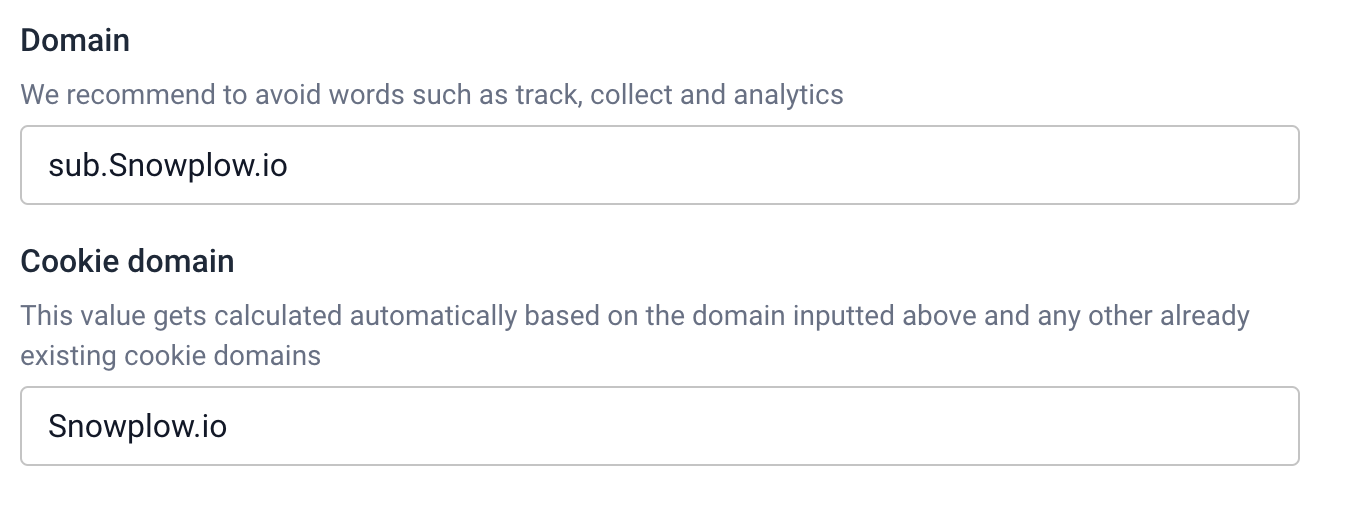
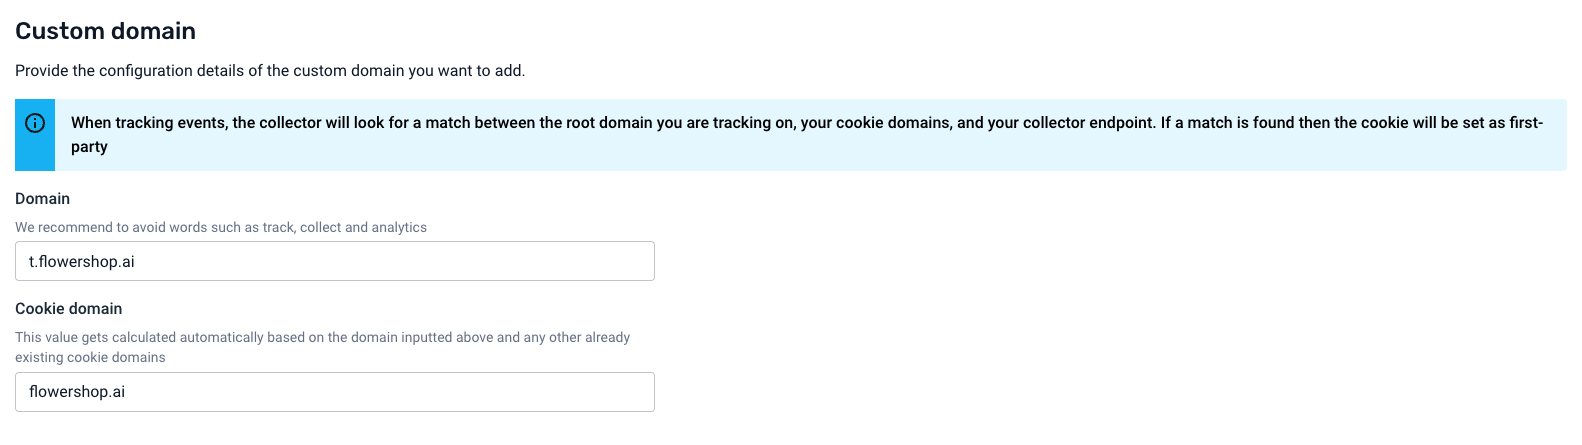
Images changed and text updated.

diff --git a/docs/getting-started-on-snowplow-bdp-cloud/first-party-tracking/index.md b/docs/getting-started-on-snowplow-bdp-cloud/first-party-tracking/index.md
@@ -1,38 +1,89 @@
 ---
 title: "First party tracking"
 sidebar_position: 3
-sidebar_custom_props:
-  offerings:
-    - cloud
+
 ---
 
 # First party tracking
+This feature lets you configure a custom collector domain to match your primary domain, enabling first-party cookies.
 
-This feature lets you configure a custom collector domain to match the domain you wish to track. This allows for first-party cookies to be set on the server.
-Enter the domain you wish to track, **any sub domain or multi level sub domain will be removed** and a cookie domain will be generated. If you wish to restrict the tracking to a sub domain the cookie domain can still be edited.
+When your collector domain (e.g. `collector.snwplow.net`) does not match your primary domain (e.g. `flowershop.ai`), web browsers can impose limitations on the collected data. For example, cookies set by the collector might be only kept for 7 days. 
+
+With first-party tracking, you can configure a custom collector domain (e.g. `c.flowershop.ai`) to match your primary domain (e.g. `flowershop.ai`), sidestepping these limitations.
+
+:::info
+Before starting, ensure you can access and edit the configuration of your hosting/DNS provider. This is necessary to complete the implementation.
+::: 
+
+## Selecting the domain names
+When configuring first-party tracking, you first need to set a collector domain where the events will be sent to by the web browser. This must be a subdomain of your primary domain. For example, for `flowershop.ai` it could be `t.flowershop.ai` or `c.app.flowershop.ai`.
+
+:::tip
+Avoid words such as “track”, “collect” or “analytics”, as ad blockers may prevent data from being sent to domains containing these words.
+:::
+
+You also need to select a cookie domain. This will determine on which websites the cookie will be available. For example, if your cookie domain is `flowershop.ai`, the cookie will be available on `flowershop.ai`, as well as any subdomains.
+
+:::note
+For Snowplow collector to be able to set the cookie, the cookie domain must be a parent domain of the collector domain.
+:::
+
+Here are a few examples:
+
+| Collector domain    | Cookie domain     | Cookie available on                            |
+|:--------------------|:------------------|:-----------------------------------------------|
+| t.flowershop.ai     | flowershop.ai     | flowershop.ai, <br/>app.flowershop.ai, etc          |
+| c.app.flowershop.ai | app.flowershop.ai | app.flowershop.ai, <br/>beta.app.flowershop.ai, etc |
+
+
+When you enter a collector domain, we will automatically suggest a cookie domain. You can edit it to suit your use case.
+
+<details>
+<summary>How to choose the cookie domain</summary>
+
+Setting the cookie domain to your primary domain has the benefit of allowing you to track users across any subdomains.
+For example, a cookie domain of `flowershop.ai` would work across all the following subdomains (and would allow you to track the same user ids):
+
+- docs.flowershop.ai
+- app.flowershop.ai
+- test.app.flowershop.ai
+- flowershop.ai
+
+In some cases, you may wish to separate the tracking of user behaviour for different subdomains. 
+
+For example, if you own both `gardening.primary-domain.co.uk` and `insurance.primary-domain.co.uk` and only want to track users on `gardening.primary-domain.co.uk`, you can select that as your cookie domain and `c.gardening.primary-domain.co.uk` as your collector domain.
+</details>
 
 ![enter_domain](images/Screenshot_enter_domain.png)
 
-## DNS records
-The required DNS records will now be created, this may take several minutes.
-When the records are ready you will receive email confirmation.
+## Configuring DNS records
+In the next step, BDP Cloud will generate the required DNS records. This may take several minutes.
+
+When the records are ready, you will receive a confirmation by email.
 
 ![create_dns_records](images/Screenshot_create_dns_records.png)
 
-Once the DNS records are available, copy them into your domain provider.
-We will attempt to verify that the records have been correctly applied up to 72 hours after they have been generated.
+Once the DNS records are available, copy them into your domain provider. 
 
-**After 72 hours** if the records are not verified the process will be terminated in a failed state and you will need to start over.
+The set of DNS records will contain a special record that allows BDP Cloud to verify that the setup is correct.
 
-When verification has been completed the status in the bottom left will change and you will receive email confirmation.
+:::info
+You will have to conclude this step within 72 hours. If BDP Cloud is unable to verify the setup within that timeframe, you will have to restart the process from the beginning.
+:::
+
+Once BDP Cloud verifies your DNS setup, the status in the bottom left will change and you will receive a confirmation by email.
 
 ![dns_records](images/Screenshot_dns_records.png)
 
-## Implement new tracking snippet
-In console navigate to “**Start tracking events**”, here you will find the JavaScript tracking snippet.
-The code snippet will show the default collector URL, once the new custom domain is verified you can change the URL via the dropdown menu. 
+## Updating your tracking code 
 
-You now need to update the tracking snippet in your code base with the new URL to complete the implementation of First-party tracking.
+Once the new custom domain is verified, you can implement the tracking code. 
+
+This can be done in several ways:
+
+- If you have not yet implemented tracking and wish to implement the JavaScript tracking snippet, navigate to “Start tracking events”. You can select the new custom domain from the dropdown and the code snippet will automatically update.
+- If you already have tracking implemented and are using the JavaScript tracker, follow the above step or update the collector URL manually.
+- If you wish to implement tracking or already have tracking with one of our other trackers then you will need to manually change the collector URL.
 
 ![implement_new_tracking_snippet](images/Screenshot_implement_new_tracking_snippet.png)
 
